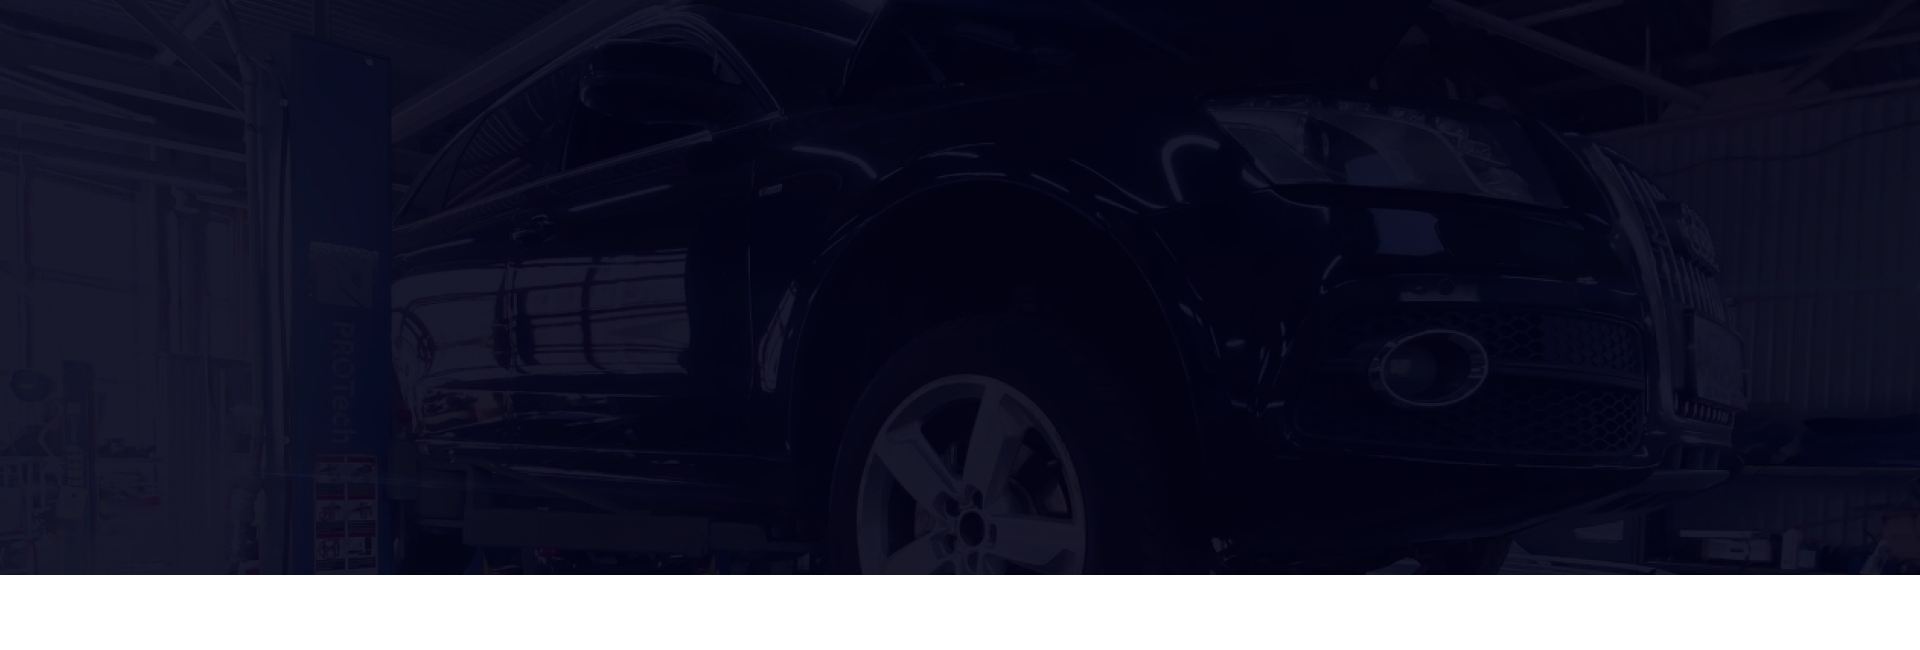
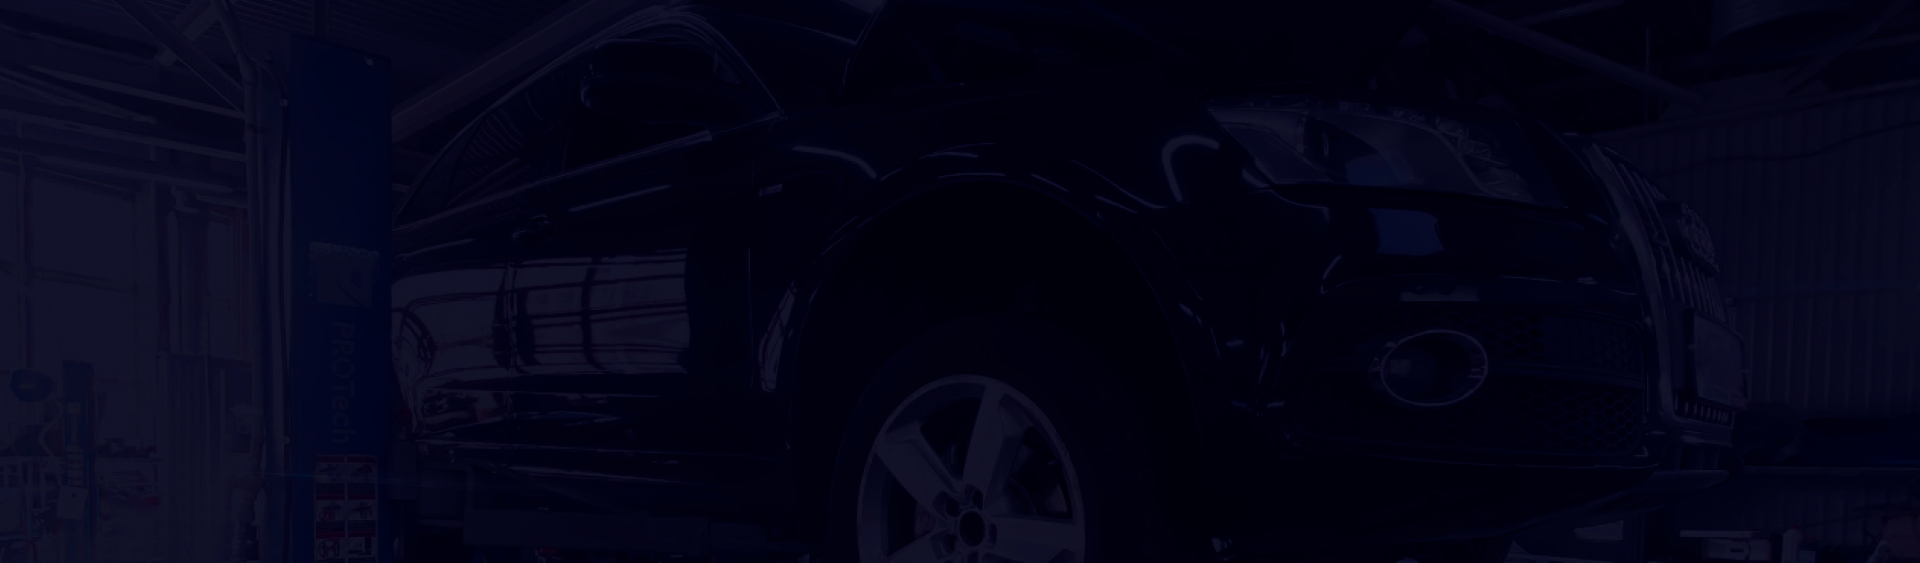
правки

diff --git a/public/css/style.css b/public/css/style.css
@@ -221,17 +221,32 @@ header::after{
     display: block;
     margin-right: 24px;
 }
+
+
 .banner__left-content_consult .consult_btn{
-    width: 200px;
-    height: 50px;
+
     border-radius: 91px;
     display: flex;
-    justify-content: center;
-    align-items: center;
     color: #ffffff;
     text-decoration: none;
     background-color: #EE3428;
+
+    justify-content: center;
+
+    align-items: center;
+    width: 200px;
+    height: 50px;
+    padding-top: 2px;
+    border: none;
+    position: relative;
+    font-size: 15px;
+    text-align: center;
+    text-transform: uppercase;
+    cursor: pointer;
+    overflow: hidden;
 }
+
+
 .banner__right-content{
     width: 100%;
     height: 100%;
@@ -273,9 +288,14 @@ header::after{
     font-size: 18px;
 }
 
+/* Quiz */
+.quiz__questions .answer-images .answer-image__img-container_with-img{
+    background-color: #FFFFFF !important;
+}
+
 /* Request Form */
 .car-check__request{
-    padding-top: 100px;
+    padding-top: 30px;
     padding-bottom: 100px;
 }
 .car-check__request h2{
@@ -526,10 +546,11 @@ header::after{
 }
 .our-works__slider_img img{
     width: 515px;
-    height: 515px;
+    height: 480px;
     object-fit: cover;
     object-position: center;
     border-radius: 10px;
+    margin-bottom: 40px;
 }
 .our-works__slider_content{
     height: 515px;
@@ -1436,7 +1457,64 @@ footer.footer .header__audi-partners{
     background: url(../video/our-sklad.mp4);
     background-size: cover;
     overflow-y: hidden;
-    filter: brightness(0.3);
+   /* filter: brightness(0.3);*/
     overflow-x: hidden;
     max-height: 500px;
+}
+
+/* Buttons Animation*/
+.banner__left-content_consult .consult_btn, .request-form__btn a,  .offers__item_button a, .diagnostic-callback__form_btn-container{
+    display: -webkit-box;
+    display: -ms-flexbox;
+    -webkit-box-orient: horizontal;
+    -webkit-box-direction: normal;
+    -ms-flex-flow: row nowrap;
+    flex-flow: row nowrap;
+    -webkit-box-pack: center;
+    -ms-flex-pack: center;
+    -webkit-box-align: center;
+    -ms-flex-align: center;
+    -webkit-transition: ease 0.3s;
+    transition: ease 0.3s;
+    position: relative;
+    overflow: hidden;
+}
+
+.diagnostic-callback__form_btn-container{
+    border-radius: 91px;
+}
+.banner__left-content_consult .consult_btn::after, .request-form__btn a::after,  .offers__item_button a::after, .diagnostic-callback__form_btn-container::after{
+    content: "";
+    display: block;
+    width: 20px;
+    height: 300px;
+    margin-left: 60px;
+    background: #fff;
+    background: -moz-linear-gradient(top, rgba(255,255,255,0.7) 0%, rgba(255,255,255,1) 50%, rgba(255,255,255,0.7) 100%);
+    background: -webkit-linear-gradient(top, rgba(255,255,255,0.7) 0%,rgba(255,255,255,1) 50%,rgba(255,255,255,0.7) 100%);
+    background: linear-gradient(to bottom, rgba(255,255,255,0.7) 0%,rgba(255,255,255,1) 50%,rgba(255,255,255,0.7) 100%);
+    filter: progid:DXImageTransform.Microsoft.gradient( startColorstr='#b3ffffff', endColorstr='#b3ffffff',GradientType=0 );
+    position: absolute;
+    left: -40px;
+    top: -150px;
+    z-index: 1;
+    -webkit-transform: rotate(45deg);
+    transform: rotate(45deg);
+    -webkit-transition: all 0.1s;
+    transition: all 0.1s;
+    -webkit-animation-name: slideme;
+    animation-name: slideme;
+    -webkit-animation-duration: 3s;
+    animation-duration: 3s;
+    -webkit-animation-delay: 2s;
+    animation-delay: 2s;
+    -webkit-animation-timing-function: ease-in-out;
+    animation-timing-function: ease-in-out;
+    -webkit-animation-iteration-count: infinite;
+    animation-iteration-count: infinite;
+}
+@-webkit-keyframes slideme {
+    0% { left: -30px; margin-left: 0px; }
+    30% { left: 110%; margin-left: 80px; }
+    100% { left: 110%; margin-left: 80px; }
 }
